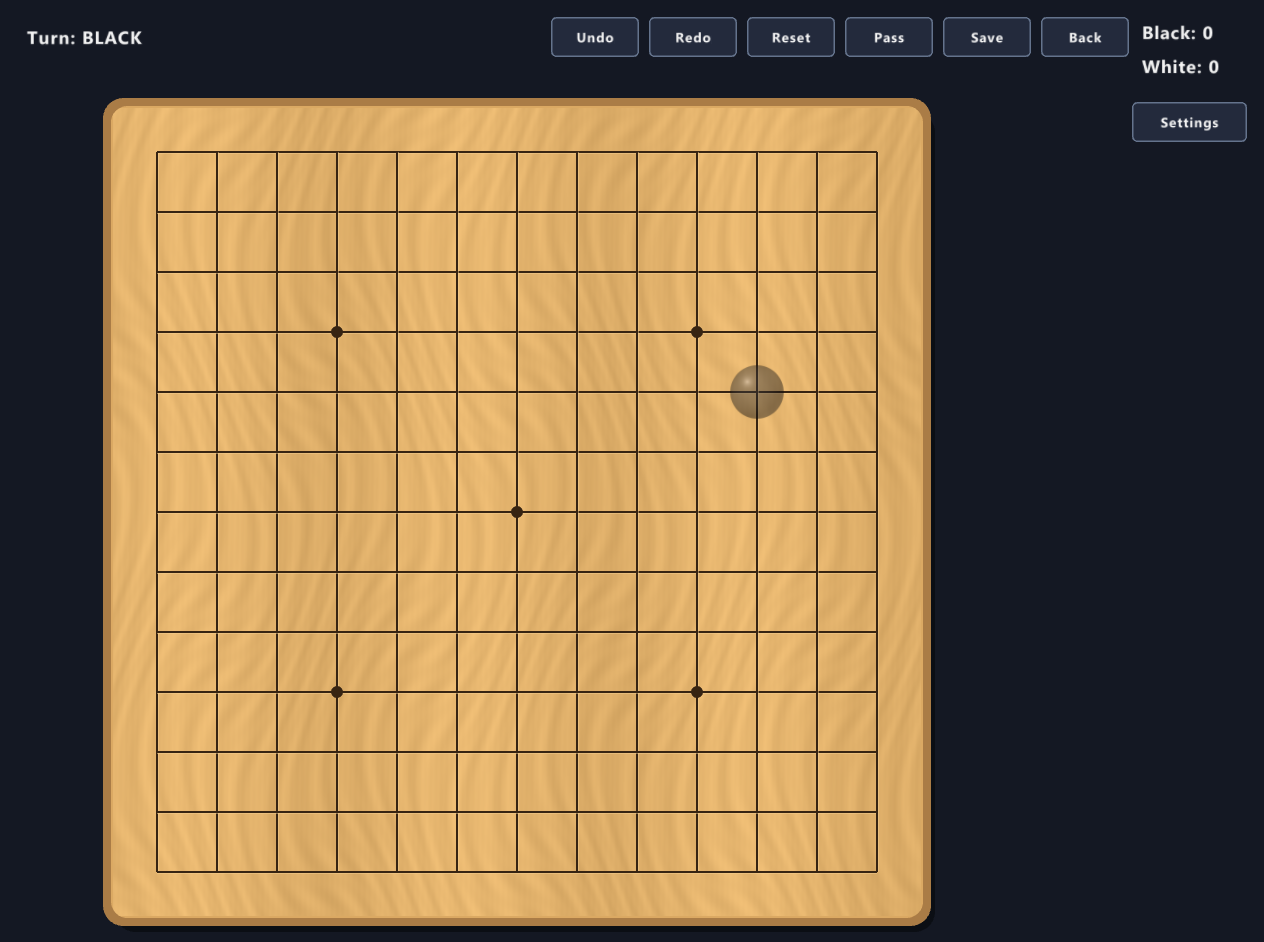
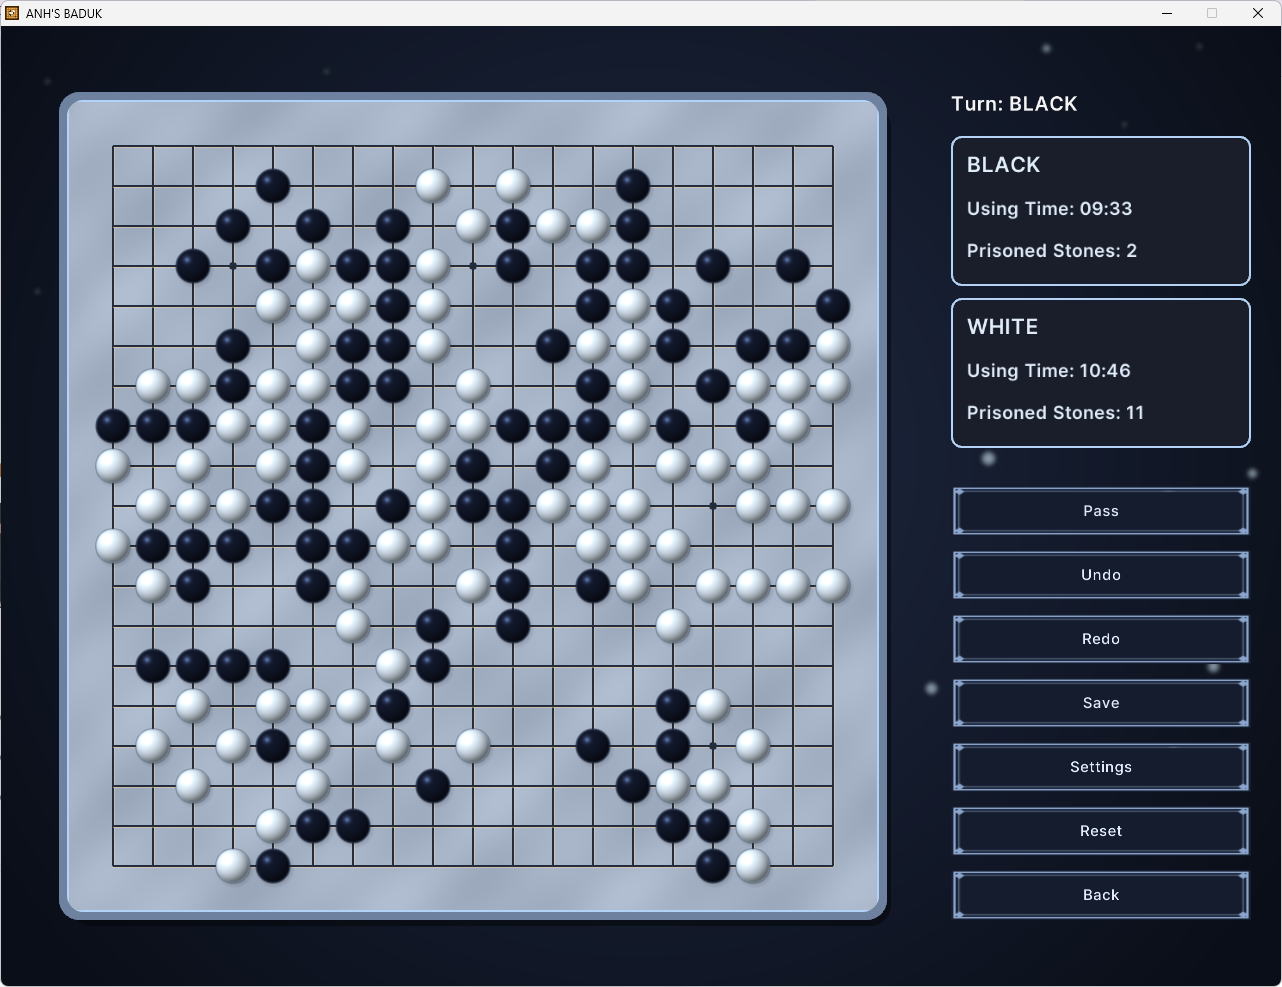
chore: update requirements

diff --git a/docs/report/sections/requirements_specification.tex b/docs/report/sections/requirements_specification.tex
@@ -4,14 +4,14 @@
 
 \begin{itemize}
     \item \textbf{Two-player mode:} Two players compete on the same device.
-    Black moves first, and turns alternate between Black and White after
+    black moves first, and turns alternate between black and white after
     each valid move or pass.
 
-    \item \textbf{Player vs.\ AI mode:} The human player controls Black,
-    while the computer controls White. Before starting the game, the player
+    \item \textbf{Player vs.\ AI mode:} The human player controls black,
+    while the computer controls white. Before starting the game, the player
     can choose from three difficulty levels: Easy, Medium, or Hard.
-    The computer responds after each human turn, with an artificial
-    delay of 1500 milliseconds to simulate thinking time.
+    After each human turn, the computer waits 1.5 seconds before computing
+    its move. The total response time includes this delay and the computation time.
 \end{itemize}
 
 \subsection{User Interface (UI)}
@@ -19,7 +19,7 @@
 \begin{itemize}
     \item A board on which Go stones can be placed.
     \item Turn indicator showing whether it's white or black's turn.
-    \item Notification for stone captures. Panel for end-game scoring. A red square on board indicating Ko threat.
+    \item Notification for stone captures. Panel for end-game scoring. A red square on the board marking an intersection where a move is prohibited by the Ko rule.
     \item Buttons to:
     \begin{itemize}
         \item Start a new game.
@@ -28,19 +28,23 @@
             \item Select AI difficulty level before starting a Player vs AI game.
         \end{itemize}
         \item Reset the current game to an empty board.
-        \item Undo the last move.
-        \item Redo the last undone move.
+        \item Pass the current turn.
+        \item Return to the title screen.
+        \item Undo moves according to the selected game mode.
+        \item Redo undone moves according to the selected game mode.
         \item Save the current game state to a file.
         \item Load a previously saved game state from a file.
         \item Adjust game settings, including:
         \begin{itemize}
-            \item Board Color: Options to select different colors or themes for the Go board.
-            \item Stone Design: Options to change the design or style of the stones.
-            \item Sound Effects: Options to enable or disable sound effects for placing stones, capturing stones, end-game scoring, and background music.
-            \item Background Music: Options to choose background music or disable it. Include a volume control for sound effects and music.
+            \item Game Theme: Select the appearance of the game interface.
+            \item Board Appearance: Select the visual style of the Go board.
+            \item Stone Design: Select the visual style of the black and white stones.
+            \item Audio Controls: Adjust volume and toggle mute separately for master audio, background music, and sound effects. The sound-effects control applies to all gameplay and button-click sounds together.
+            \item Background Music: Select a background music track.
+            \item Click Sound: Select the sound effect used for button clicks.
         \end{itemize}
-        \item Exit the game.
     \end{itemize}
+    \item Press \texttt{H} on the title screen or close the window to exit the game.
 \end{itemize}
 
 \subsection{Board Representation}
@@ -50,7 +54,8 @@
     \item Players can place stones on the board by clicking on the desired intersection.
     \item Visual and audio feedback are provided when a stone is placed.
     \item In \textbf{2-player mode}, alternate turns between players, with the current player's turn indicated on the UI.
-    \item In \textbf{Player vs AI mode}, the human player controls Black, and the computer controls White. The AI responds after each human turn, with an artificial delay of 1500 milliseconds to simulate thinking time.
+    \item In \textbf{Player vs AI mode}, the human player controls black, and the computer controls white. After each human turn, the computer waits 1.5 seconds before computing
+    its move. The total response time includes this delay and the computation time.
 \end{itemize}
 
 \subsection{Game Logic}
@@ -59,15 +64,18 @@
     \item Implement the rules of Go:
     \begin{itemize}
         \item Stone placement
+        \item Connected-group detection: Identify groups of same-color stones connected horizontally or vertically.
+        \item Liberties: Identify empty intersections adjacent horizontally or vertically to a group; count each distinct liberty once when evaluating groups for the AI.
         \item Capturing stones
+        \item Suicide prevention: Reject moves that leave the placed stone's group without liberties, unless capturing opposing stones creates liberties.
         \item Ko rule
         \item Scoring: The game uses simplified Japanese-style scoring based
-        on territory and captured stones, with komi added to White's score.
+        on territory and captured stones, with 6.5 points of komi added to white's score.
         It does not implement a post-game dead-stone removal phase or an
         algorithm for determining whether a group is alive or dead. 
     \end{itemize}
     \item Ensure that the game enforces valid moves and prevents illegal placements.
-    \item Automatically detect and handle end-game conditions of passing two times.
+    \item End the game after two consecutive passes. A valid stone placement resets the consecutive-pass counter.
 \end{itemize}
 
 \subsection{AI Opponent}
@@ -75,13 +83,11 @@
 \begin{itemize}
     \item Implement three levels of AI difficulty:
     \begin{itemize}
-        \item \textbf{Easy:} The AI makes quick, random moves without much evaluation.
-        \item \textbf{Medium:} The AI uses the Minimax algorithm with a shallow depth, making reasonable
-        moves with occasional mistakes.
+        \item \textbf{Easy:} The AI randomly selects legal moves with basic safety checks, avoiding its own eyes and preferring moves that leave its group with more than one liberty.
+        \item \textbf{Medium:} The AI uses the Minimax algorithm with a shallow depth, making reasonable moves with occasional mistakes.
         \item \textbf{Hard:} The AI uses Minimax with Alpha-Beta pruning, evaluating a deeper move tree to
         play strategically, reducing mistakes.
     \end{itemize}
-    \item The AI makes moves efficiently, within a reasonable time frame, even at the Hard difficulty level.
 \end{itemize}
 
 \subsection{Game State Management}
@@ -90,23 +96,24 @@
     \item Track the current state of the board and the game.
     \item Handle turn management, ensuring proper transitions between the player's turn and the AI's
 turn or between two human players.
-    \item Implement undo and redo functionality, allowing players to revert to previous game states or redo moves.
-    \item Ensure that the game state is accurately updated after each move, including capturing stones and updating scores.
-    \item Provide the ability to reset the game to its initial state at any time.
+    \item Undo or redo one move per click in two-player mode. In Player vs.\ AI mode, undo or redo up to two moves per click to cover the human--AI move pair, depending on the available history.
+    \item Update the board state, turn, consecutive-pass counter, and capture counts after moves; display final scores at game end.
+    \item Allow resetting during active play when human controls are available. Reset clears stones, capture counts, move and undo history, consecutive passes, and timers, and restores black's turn while preserving board size, game mode, and AI difficulty.
 \end{itemize}
 
 \subsection{Saving and Loading}
 
 \begin{itemize}
-    \item Implement functionality to save the current game state to a file in JSON format.
-    \item Implement functionality to load a previously saved game state from a JSON file.
+    \item Save and load games in JSON format using three save slots.
+    \item Request confirmation before overwriting an occupied save slot, with options to confirm or cancel.
 \end{itemize}
 
 \subsection{Additional Implemented Features}
 
 \begin{itemize}
     \item Selection of $9 \times 9$, $13 \times 13$, and $19 \times 19$ board sizes.
-    \item Save and load with three slots.
+    \item Display separate elapsed-time counters for black and white. Only the current player's counter advances during active play; both counters pause outside the playing screen.
+    \item Automatically save changes to appearance and audio settings and restore them on subsequent launches.
 \end{itemize}
 
 \subsection{Technology Stack}

diff --git a/docs/report/sections/testing_document.tex b/docs/report/sections/testing_document.tex
@@ -140,7 +140,7 @@
 \end{samepage}
 \medskip
 
-\subsubsection*{Testing Summary: S01}
+\textbf{Testing Summary: S01}
 
 \begin{tabularx}{\textwidth}{|>{\raggedright\arraybackslash}p{6cm}|>{\raggedright\arraybackslash}X|}
 \hline
@@ -151,6 +151,8 @@
 \textbf{Known issues or limitations} & None \\ \hline
 \end{tabularx}
 \bigskip
+
+\subsubsection{S02: }
 
 \subsection {Bug Analysis}
 

diff --git a/README.md b/README.md
@@ -3,9 +3,9 @@
 ## Introduction
 This is the C++ final project for the course **CS160 - Introduction to Computer Science**. 
 
-![Menu](screenshots/Menu.png)
+![Menu](screenshots/MainGame.png)
 
-The objective of this project is to recreate the traditional board game Go using C++ and the Raylib library, following the Japanese ruleset. The application aims to provide an intuitive and user-friendly interface for learning, practicing, and enjoying Go. Users can play against another player or a computer with three difficulty levels and choose from different board sizes. The game also allows users to undo and redo moves, save and load games, and customize audio settings.
+The objective of this project is to recreate the traditional board game Go using C++ and the Raylib library, following the Japanese ruleset. The application aims to provide an intuitive and user-friendly interface for learning, practicing, and enjoying Go. Users can play against another player or a computer with three difficulty levels and choose from different board sizes. The game also allows users to undo and redo moves, save and load games, and customize settings.
 
 ## Features
 The game currently supports two modes:
@@ -16,9 +16,9 @@ Notable features include:
 - Adjustable board sizes: 9×9, 13×13, and 19×19
 - Undoing and redoing moves
 - Saving and loading games
-- Background music selection
-- Audio control
+- Settings
 - Autosave current settings
+- and many more!
 
 ## Dependencies
 
